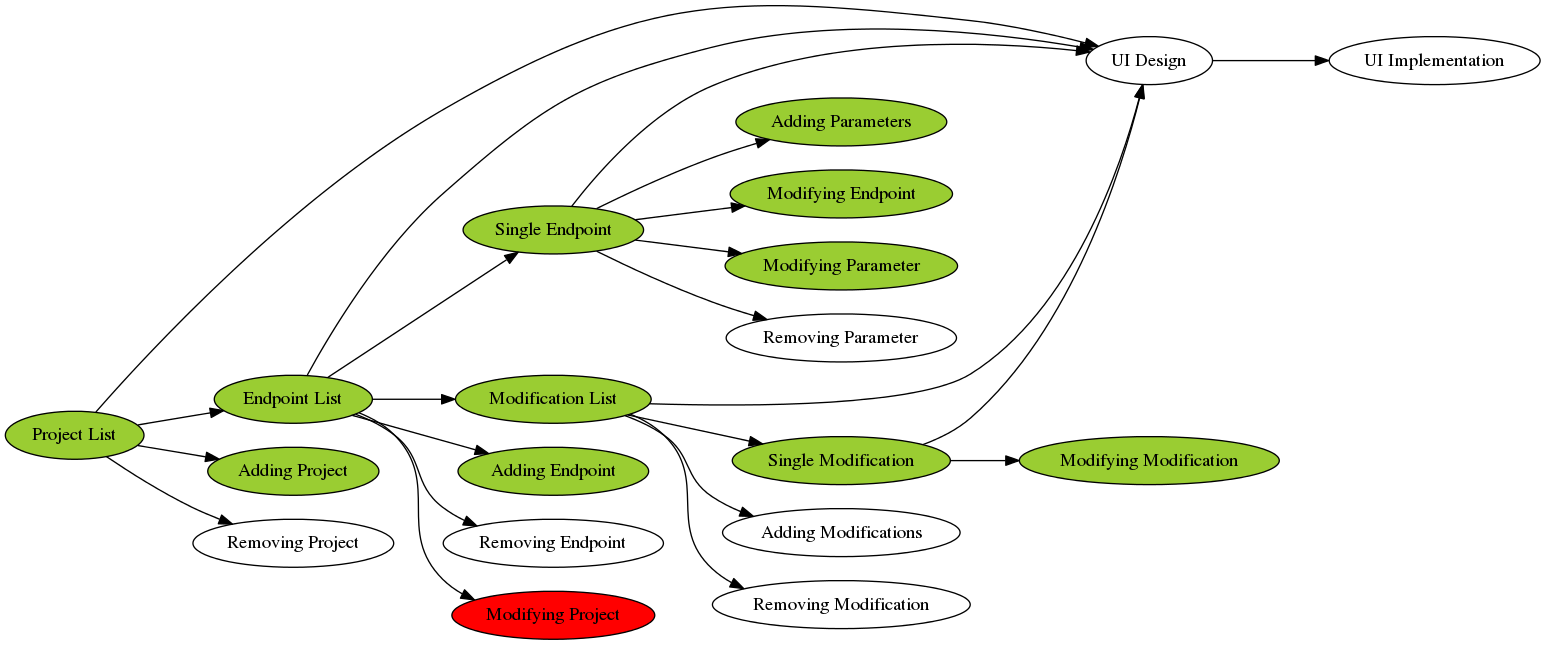
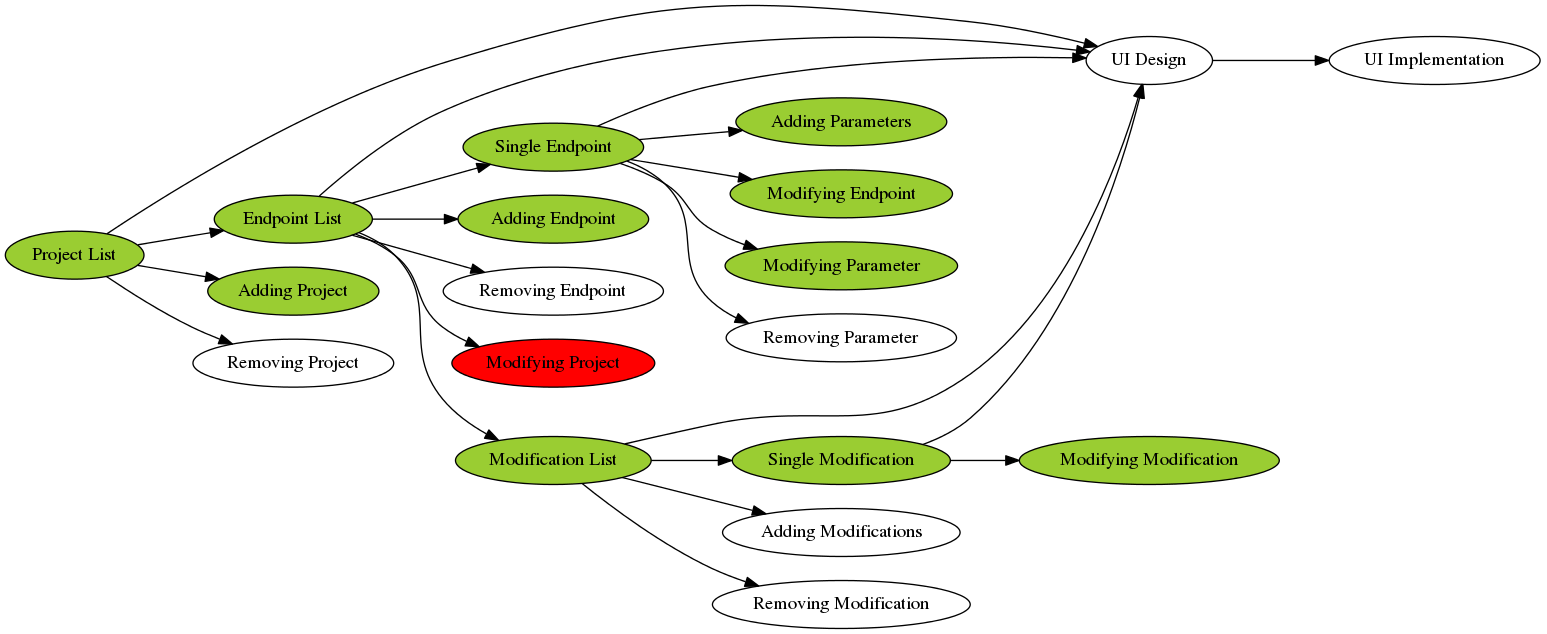
Modification is now part of the project

diff --git a/app/Http/Controllers/ModificationController.php b/app/Http/Controllers/ModificationController.php
@@ -8,31 +8,34 @@ use App\Http\Requests;
 
 class ModificationController extends Controller
 {
-    public function showList(Request $request)
+    public function showList(Request $request, $projName)
     {
         // get modifications list
-        $modificationList = \App\Modification::get();
+        $proj = \App\Project::where('name', '=', $projName)->firstOrFail();
+        $modificationList = $proj->modifications;
 
         // show view
         return view('modificationListView', [
+            'projName' => $projName,
             'modList' => $modificationList
         ]);
     }
 
 
-    public function showEditable(Request $request, $modId)
+    public function showEditable(Request $request, $projName, $modId)
     {
         // get modification
         $modification = \App\Modification::where('id', '=', $modId)->firstOrFail();
 
         // show view
         return view('modificationEditableView', [
+            'projName' => $projName,
             'modification' => $modification
         ]);
     }
 
 
-    public function editModification(Request $request, $modId)
+    public function editModification(Request $request, $projName, $modId)
     {
         // validate data
         $this->validate($request, [
@@ -49,6 +52,8 @@ class ModificationController extends Controller
         $modification->save();
 
         // show modifications list
-        return redirect()->action('ModificationController@showList');
+        return redirect()->action('ModificationController@showList', [
+            'projName' => $projName
+        ]);
     }
 }

diff --git a/database/seeds/ModificationsTableSeeder.php b/database/seeds/ModificationsTableSeeder.php
@@ -11,18 +11,21 @@ class ModificationsTableSeeder extends Seeder
      */
     public function run()
     {
+        $sfProj = \App\Project::where('name', 'SportoweFakty')->firstOrFail();
+        $sfId = $sfProj->id;
+
         DB::table('modifications')->insert([
             [
                 'name' => 'test_01',
-                'type' => 1,
                 'path' => 'info.liveId',
-                'value' => '{"data":"test"}'
+                'value' => '{"data":"test"}',
+                'projectId' => $sfId
             ],
             [
                 'name' => 'test_02',
-                'type' => 1,
                 'path' => 'info.discipline',
-                'value' => '{"data":"test"}'
+                'value' => '{"data":"test"}',
+                'projectId' => $sfId
             ],
         ]);
     }

diff --git a/app/Http/routes.php b/app/Http/routes.php
@@ -38,8 +38,8 @@ Route::post('proj/{projName}/edit/{endpointName}', 'SingleEndpointController@edi
 Route::any('proj/{projName}/query/{endpointName}', 'SingleEndpointController@query');
 
 // list of modifications
-Route::get('mod', 'ModificationController@showList');
+Route::get('proj/{projName}/mod', 'ModificationController@showList');
 
 // edit modification
-Route::get('mod/{modId}', 'ModificationController@showEditable');
-Route::post('mod/{modId}', 'ModificationController@editModification');
+Route::get('proj/{projName}/mod/{modId}', 'ModificationController@showEditable');
+Route::post('proj/{projName}/mod/{modId}', 'ModificationController@editModification');

diff --git a/database/migrations/2016_05_19_165629_create_modifications_table.php b/database/migrations/2016_05_19_165629_create_modifications_table.php
@@ -15,9 +15,10 @@ class CreateModificationsTable extends Migration
         Schema::create('modifications', function (Blueprint $table) {
             $table->increments('id');
             $table->string('name', 100);
-            $table->integer('type');    // TODO: create table to prevent not specified values
             $table->string('path', 512);
             $table->text('value');
+            $table->integer('projectId')->unsigned();
+            $table->foreign('projectId')->references('id')->on('projects');
         });
     }
 

diff --git a/resources/views/endpointListView.blade.php b/resources/views/endpointListView.blade.php
@@ -8,6 +8,8 @@
     <body>
         <div class="container">
             <div class="content">
+                <a href="{{ action('ModificationController@showList', ['projName' => $projectName]) }}">Modification List</a><br/><br/>
+
                 @foreach ($endpointList as $endpoint)
                     <h1>{{ $endpoint->name }}</h1>
                     <a href="{{ action('SingleEndpointController@query', [ 'projName' => $projectName, 'endpointName' => $endpoint->name ]) }}">Test query</a>

diff --git a/resources/views/projectListView.blade.php b/resources/views/projectListView.blade.php
@@ -8,8 +8,6 @@
     <body>
         <div class="container">
             <div class="content">
-                <a href="{{ action('ModificationController@showList') }}">Modification List</a><br/><br/>
-
                 @foreach ($projectList as $project)
                     <a href="{{ action('EndpointListController@showList', [ 'projName' => $project->name ]) }}" >{!! $project->name !!}</a><br/>
                 @endforeach

diff --git a/app/Http/Controllers/SingleEndpointController.php b/app/Http/Controllers/SingleEndpointController.php
@@ -63,7 +63,7 @@ class SingleEndpointController extends Controller
     {
         $proj = \App\Project::where('name', '=', $projectName)->firstOrFail();
         $endpoint = $proj->endpoints()->where('name', '=', $endpointName)->firstOrFail();
-        $modList = \App\Modification::get();
+        $modList = $proj->modifications;
 
         $endpointMods = $endpoint->modifications;
         $modSelectionList = [];

diff --git a/resources/views/modificationListView.blade.php b/resources/views/modificationListView.blade.php
@@ -4,7 +4,7 @@
 @section('content')
     @foreach($modList as $mod)
         <h1>{{ $mod->name }}</h1>
-        <a href="{{ action('ModificationController@showEditable', ['modId' => $mod->id]) }}">Edit</a><br/>
+        <a href="{{ action('ModificationController@showEditable', ['projName' => $projName, 'modId' => $mod->id]) }}">Edit</a><br/>
         Path:<br/>
         {{ $mod->path }}<br/>
         Value:<br/>

diff --git a/resources/views/modificationEditableView.blade.php b/resources/views/modificationEditableView.blade.php
@@ -4,6 +4,7 @@
 @section('content')
     <form method="post" action="<?php
         action('ModificationController@editModification', [
+                'projName' => $projName,
                 'modId' => $modification->id
         ]) ?>">
 

diff --git a/app/Project.php b/app/Project.php
@@ -12,4 +12,9 @@ class Project extends Model
     {
         return $this->hasMany('App\Endpoint', 'projectId');
     }
+
+    public function modifications()
+    {
+        return $this->hasMany('App\Modification', 'projectId');
+    }
 }
